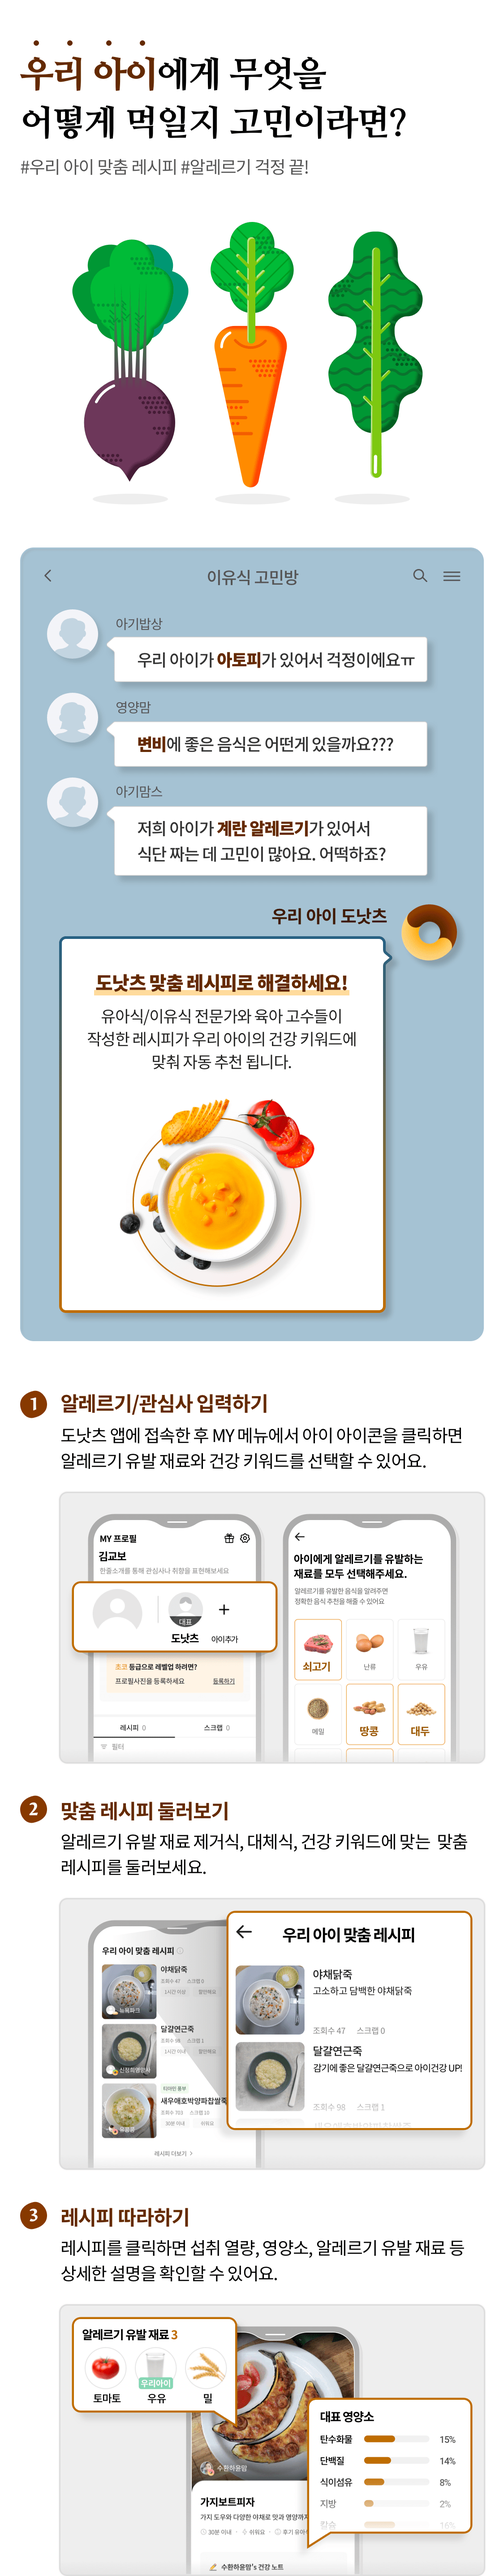
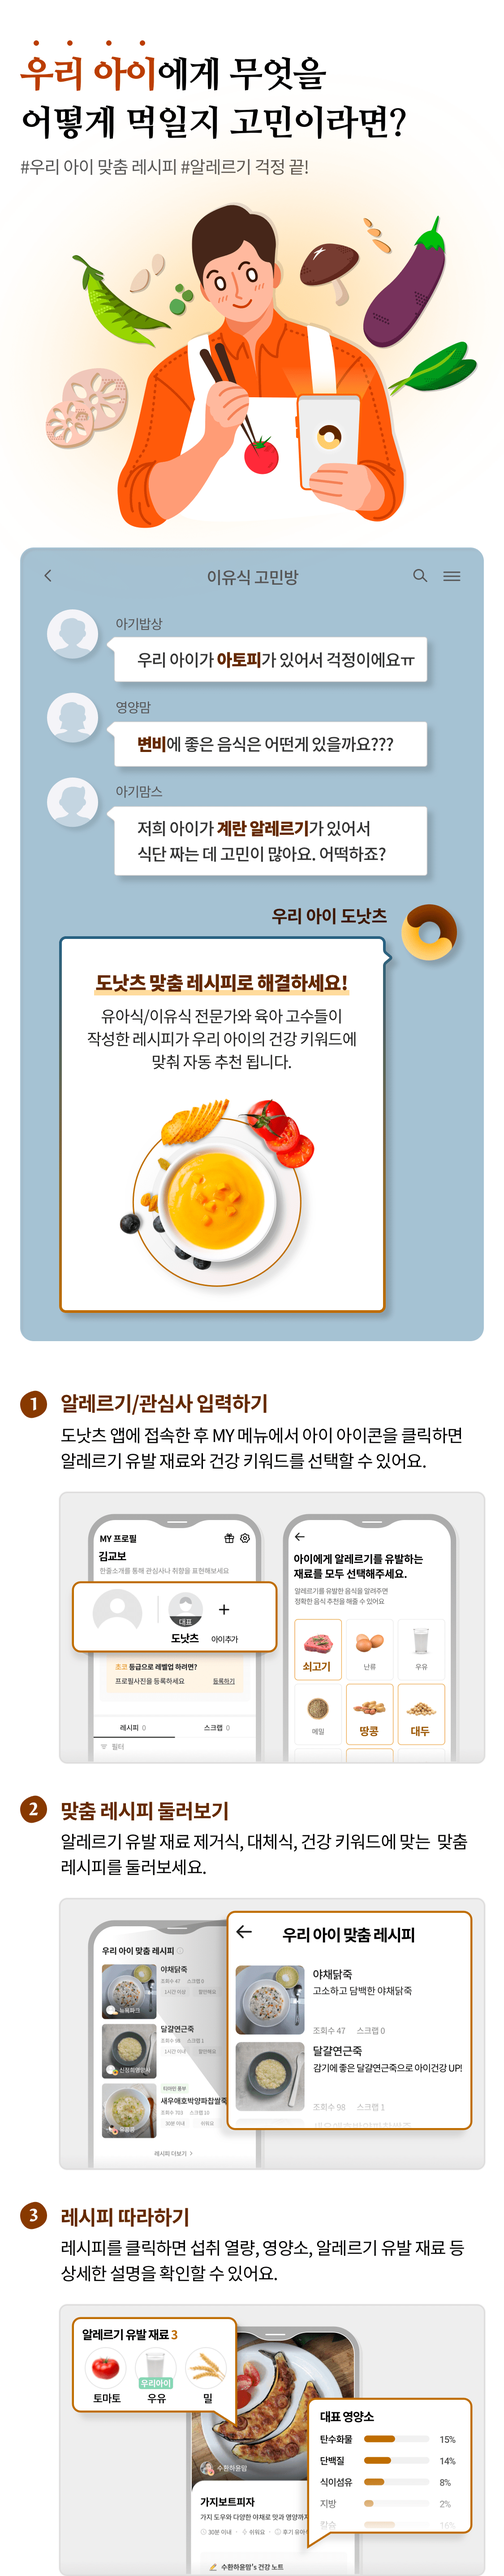
도낫츠 이미지 업데이트

diff --git a/WEB-INF/views/journey_pc/2B_141.html b/WEB-INF/views/journey_pc/2B_141.html
@@ -391,7 +391,7 @@
                                                 data-animation-type="onscroll"
                                                 data-animation-infos="style-bf-ani: 'opacity:0', style-af-ani: 'opacity:1'">
                                         </div>
-                                        <p class="mt30 fs_20 fw_700"
+                                        <p class="mt30 fs_20 fw_700" 
                                             data-animation-type="onscroll"
                                             data-animation-infos="style-bf-ani: 'opacity:0', style-af-ani: 'opacity:1'">
                                             [전세보증보험 가입 유의 사항]
@@ -531,6 +531,15 @@
                     </div>
                 </div>
                 <!-- E: con_btm_area : 콘텐츠 하단영역 -->
+
+                <!-- S: 플로팅 UI -->
+                <div id="btnPointWrap" class="btn_point_wrap">
+                    <div class="point_txt scrollToEv">
+                        <span>교보문고<br>통합포인트<br><b>5,000P</b><br> 받기!</span>
+                    </div>
+                    <button type="button" class="btn_fixed_point scrollToEv">POINT</button>
+                </div>
+                <!-- E: 플로팅 UI -->
             </div>
         </div>
         <!-- [E] container -->

diff --git a/resources/v1/css/pc_common.css b/resources/v1/css/pc_common.css
@@ -384,6 +384,17 @@ h2{font-size: 20px;}
     background-size: 13px 13px;
     background-image: url(../pc_img/icon/btn_share_close.png);}
 
+/* .btn_point_wrap 플로팅 UI */
+.btn_point_wrap{z-index: 10;position: fixed;bottom: 40px;left: calc(50% + 390px);width: 50px;height: 50px;background: black}
+.btn_point_wrap .point_txt{position: absolute;top: -100px;left: -10px;width: 70px;height: 96px;padding-bottom: 6px;text-align: center;font-size: 11px;color: #fff;}
+.btn_point_wrap .point_txt span{display: inline-block;width: 100%;height: 89px;padding-top: 10px;border-radius: 10px;background-color: rgba(0, 0, 0, 0.5);}
+.btn_point_wrap .point_txt span::before{content: "";display: inline-block;position: absolute;bottom: -1px;left: 50%;margin-left: -5.5px;
+    border-bottom: 4px solid transparent;
+    border-top: 4px solid rgba(0, 0, 0, 0.5);
+    border-left: 5.5px solid transparent;
+    border-right: 5.5px solid transparent;}
+.btn_point_wrap .point_txt span b{font-size: 14px;font-weight: 700;}
+
 
 
 
